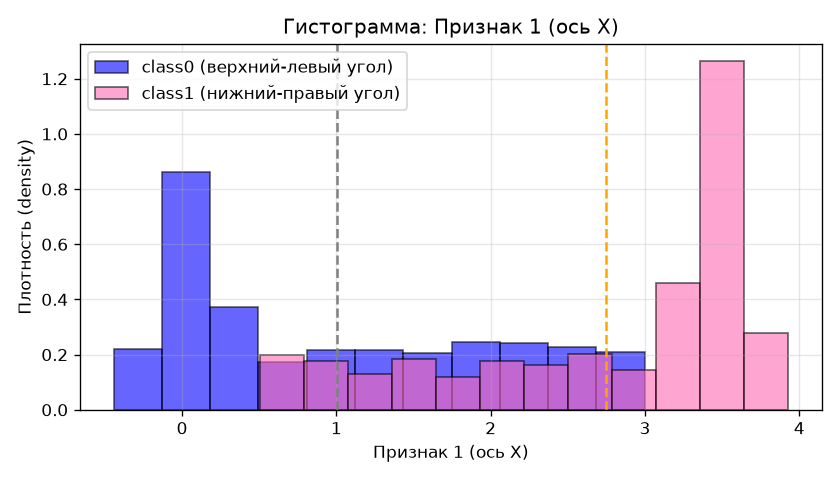
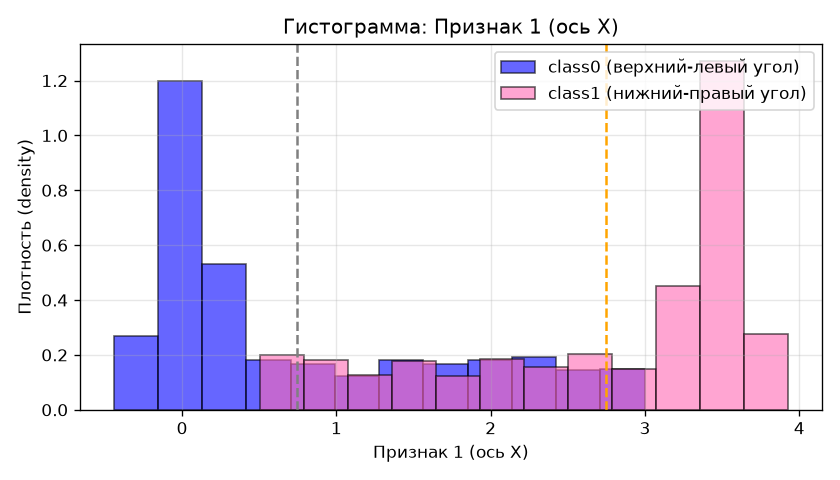
pmo

diff --git a/4 KURS/PMOiAD/lab1/DataGenerator.py b/4 KURS/PMOiAD/lab1/DataGenerator.py
@@ -90,7 +90,7 @@ def nonlinear_dataset_7(N=1000, seed=None):
     x0, y0 = 0.0, 3.0
 
     # сколько точек на горизонтальную и вертикальную полосу
-    n_v = N // 3
+    n_v = N // 2
     n_h = N - n_v
 
     # горизонтальная полоса: идёт вправо от вершины, y ≈ y0
@@ -108,7 +108,7 @@ def nonlinear_dataset_7(N=1000, seed=None):
 
     # ---------- класс 1: нижний правый угол ----------
     # вершина угла
-    x1, y1 = 3.5, 0.0
+    x1, y1 = 3.5, 2.0
 
     n_h = N // 2
     n_v = N - n_h

diff --git a/4 KURS/PMOiAD/lab1/main.py b/4 KURS/PMOiAD/lab1/main.py
@@ -16,6 +16,7 @@ if __name__ == "__main__":
     plt.grid(True, alpha=0.3)
     plt.legend()
     plt.title("nonlinear_dataset_7")
+    plt.savefig('nonlinear_dataset_7.png', dpi=120)
     plt.show()
 
     import numpy as np
